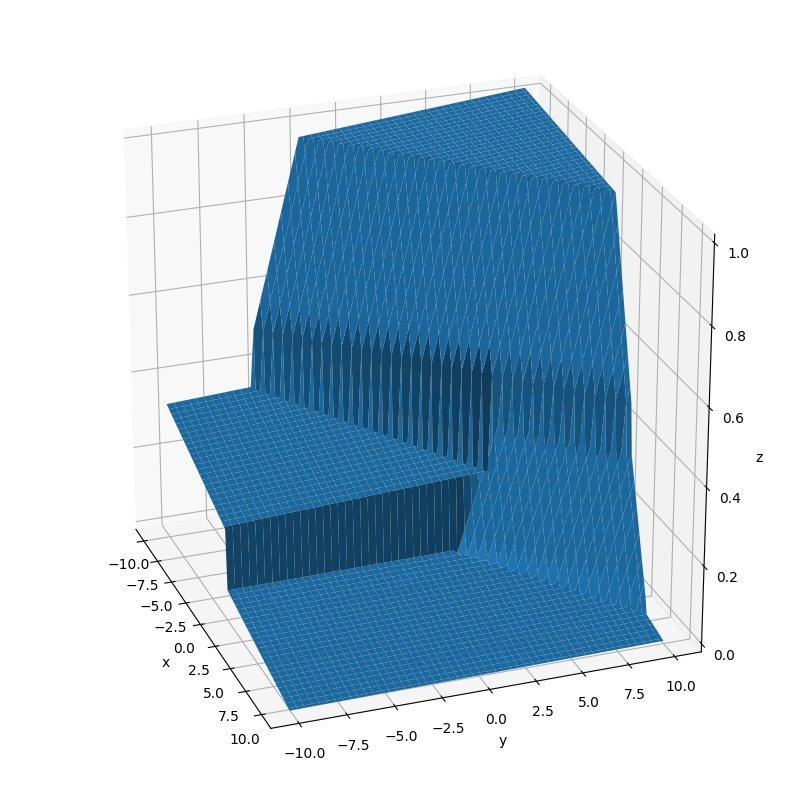
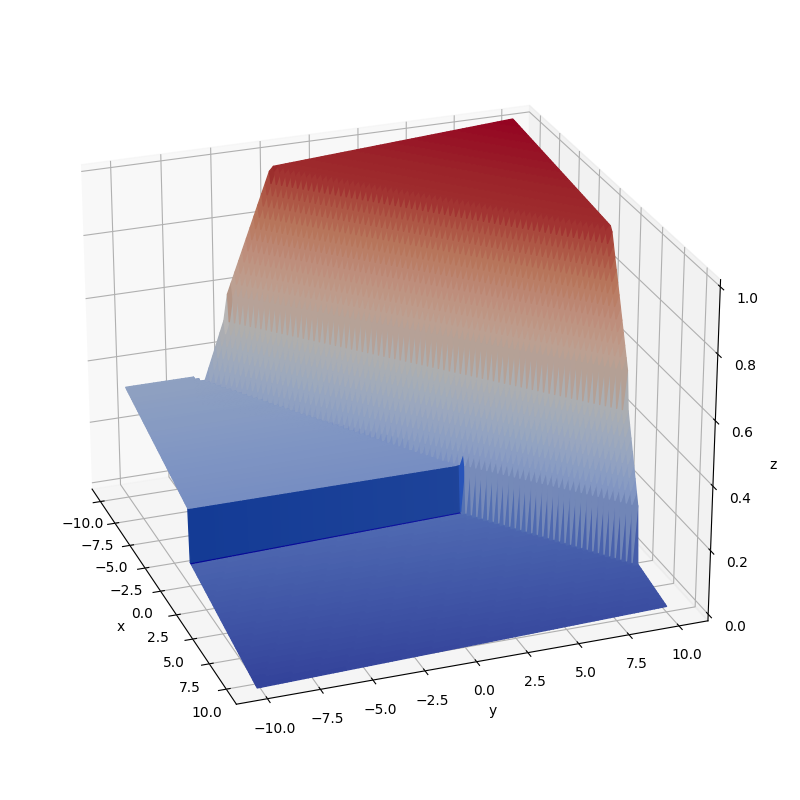
Add the diagrams of example_2D.py

diff --git a/example_2D.py b/example_2D.py
@@ -2,6 +2,7 @@
 import numpy as np
 import matplotlib.pyplot as plt
 from mpl_toolkits.mplot3d import Axes3D
+from matplotlib.colors import LightSource
 from model_tree import Model_tree
 import sys
 
@@ -77,13 +78,16 @@ zmin = 0 ; zmax = 1
 
 left = 0
 bottom = 0 
-width = 1
+width = 0.95
 height = 1
+
+ls = LightSource( azdeg=320, altdeg=45 )
 
 
 fig1 = plt.figure( 'Reference 2D', figsize=(8,8) )
 ax = plt.axes( [ left, bottom, width, height ], projection='3d' )
-ax.plot_surface( X, Y, Zr )
+rgb = ls.shade( Zr, plt.cm.coolwarm )
+ax.plot_surface( X, Y, Zr, rstride=1, cstride=1, facecolors=rgb )
 ax.set_xlabel( 'x' )
 ax.set_ylabel( 'y' )
 ax.set_zlabel( 'z' )
@@ -93,7 +97,8 @@ ax.set_zlim3d( zmin, zmax )
 
 fig2 = plt.figure( 'Prediction 2D', figsize=(8,8) )
 ax = plt.axes( [ left, bottom, width, height ], projection='3d' )
-ax.plot_surface( X, Y, Zp )
+rgb = ls.shade( Zp, plt.cm.coolwarm )
+ax.plot_surface( X, Y, Zp, rstride=1, cstride=1, facecolors=rgb )
 ax.set_xlabel( 'x' )
 ax.set_ylabel( 'y' )
 ax.set_zlabel( 'z' )
@@ -105,5 +110,8 @@ if len( sys.argv ) > 1 and sys.argv[-1] == 'w' :
 	fig1.savefig( 'pics/Reference_2D.png' )
 	#fig2.savefig( 'pics/Prediction_2D_straight.png' )
 	fig2.savefig( 'pics/Prediction_2D_oblique.png' )
+
+	#model_tree.diagram( filename='pics/Diagram_example_2D_straight.png', feature_names=[ 'x', 'y' ], float_format='{:.2f}' )
+	model_tree.diagram( filename='pics/Diagram_example_2D_oblique.png', feature_names=[ 'x', 'y' ], float_format='{:.2f}' )
 
 plt.show()

diff --git a/README.md b/README.md
@@ -5,6 +5,11 @@ Regression trees approximate a function by partitioning the input space and appl
 A **straight** tree divides the input space in two at each node by selecting a single feature and splitting at a threshold.<br />
 An **oblique** tree divides the input space in two at each node with an hyperplane. This way, the partitioning can accommodate multivariate frontiers and greatly reduce the number of nodes needed.
 
+
+## Examples
+
+### 2D inputs
+
 Below is an example for which the training set is provided by the composition of two sigmoid functions. Both model trees tries to reproduce the reference function with a collection of linear regressions. The straight tree can easily model the sigmoid function that is aligned with a single feature but struggle to approximate the multivariate sigmoid function. Conversely, the oblique tree can find a more relevant segmentation which allows a shallower tree to achieve a better match.
 
 Reference function | Straight tree | Oblique tree
@@ -12,8 +17,22 @@ Reference function | Straight tree | Oblique tree
 ![](pics/Reference_2D.png?raw=true) | ![](pics/Prediction_2D_straight.png?raw=true) | ![](pics/Prediction_2D_oblique.png?raw=true)
 || (max_depth=5) | (max_depth=3)
 
+Both resulting trees can be compared using the method `Model_tree.diagram()`:
+
+<p align="center">
+	<img src="pics/Diagram_example_2D_straight.png?raw=true">
+	<br/><i>Diagram of the resulting straight tree</i>
+</p>
+
+<p align="center">
+	<img src="pics/Diagram_example_2D_oblique.png?raw=true" width="350">
+	<br/><i>Diagram of the resulting oblique tree</i>
+</p>
+
 The source file of the example above is [example_2D.py](example_2D.py).
 
+
+### 1D inputs
 
 Here is another example with a single-dimension input space and piecewise second-order regressions given by a model tree, compared to monolithic polynomial regressions of degree 4 or 8:
 
@@ -22,14 +41,14 @@ Here is another example with a single-dimension input space and piecewise second
 The source file of the example above is [example_1D.py](example_1D.py).
 
 
-### Installation
+## Installation
 
 To install the module in the user space, run in a terminal:
 
 `$ pip install . --user`
 
 
-### Usage
+## Usage
 
 The first argument when initializing a Model_tree object is a boolean specifying if the tree is oblique.
 
